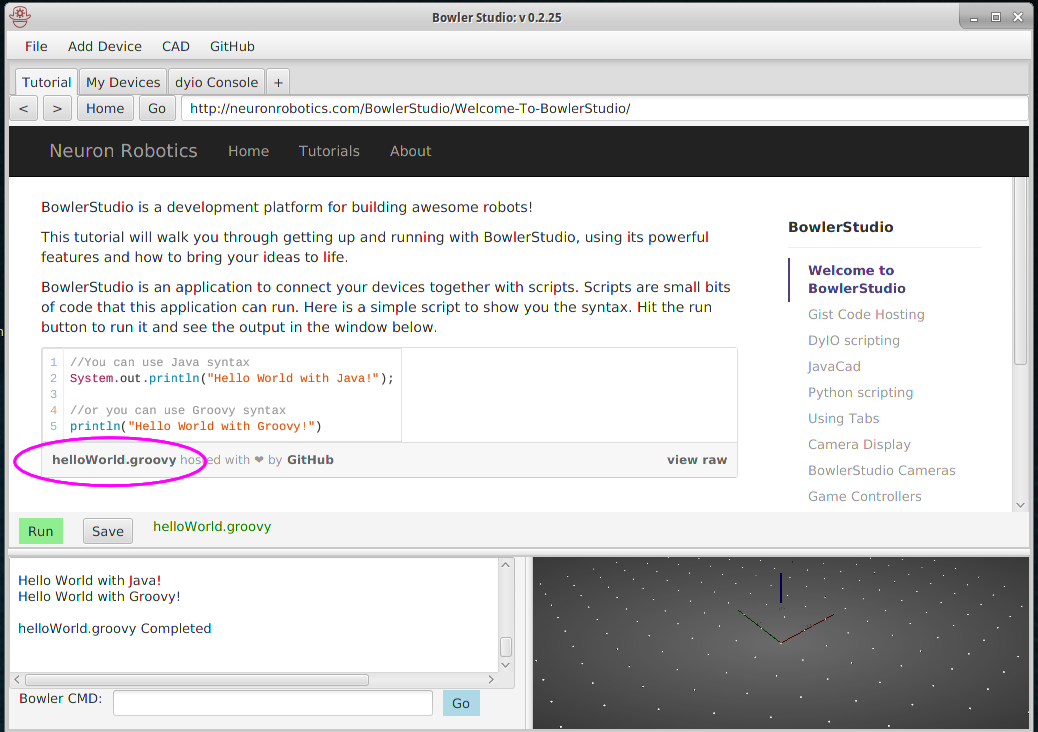
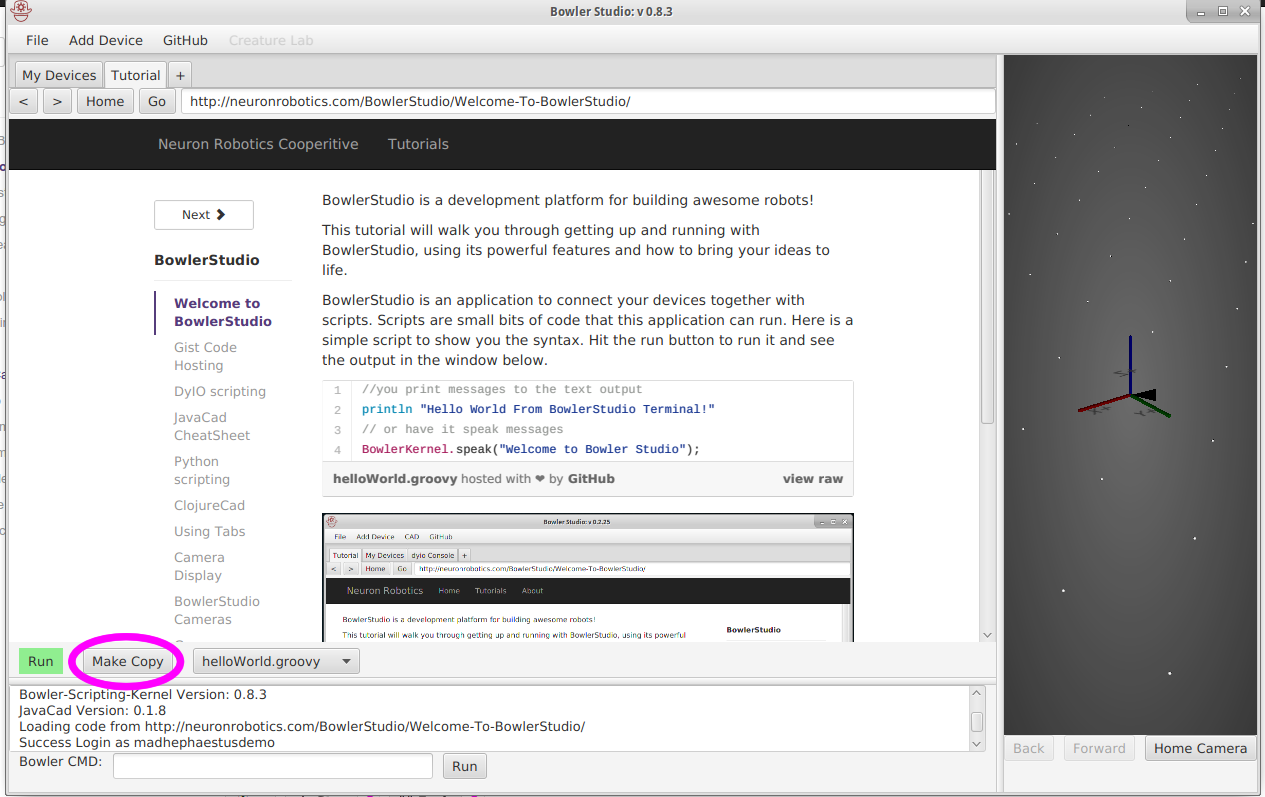
updating the tutorial for getting started to expose more of code structure before features.

diff --git a/content/BowlerStudio/GistLoading.md b/content/BowlerStudio/GistLoading.md
@@ -6,18 +6,16 @@ layout: post
 
 Github Gist is a code hosting website that makes coding social. A 'Gist' is a snipit of code, and we use it to host scripts for BowlerStudio.
 
-BowlerStudio can load code from any Github Gist just by navigating to a website with a Gist embededded in it or by navigating to the gist page. To modify a demo, just click on the filename in the embeded gist to open the browser based editor.
+BowlerStudio can load code from any Github Gist just by navigating to a website with a Gist embededded. TO edit this file first step is to make a copy. This iwll call Git Fork in the background. If you have already forked this gist, you will be brought to your existing copy. 
 
 <img src="/img/bowlerstudioscreengrab/clickonname.png" alt="BowlerStudio Screen Cap" class="img-responsive" >
 
-If the Gist is not yours, hit fork.
+After you hit make a copy, the webpage of your new gist is poped open. Nothe the URL in the navigation bar contains the URL to your gist. Also notice that since this gist is owned by you, the logged in user, then the Make Copy button changes to Edit...
 
-<img src="/img/bowlerstudioscreengrab/fork.png" alt="BowlerStudio Screen Cap" class="img-responsive" >
-
-Once you are looking at your own Gist, hit edit and edit the code in the browser. When your done, hit the update gist button. Your new code is read to run in BowlerStudio!
+Hit the edit button to change your version of the code. 
 
 <img src="/img/bowlerstudioscreengrab/editGist.png" alt="BowlerStudio Screen Cap" class="img-responsive" >
 
-Hit update gist to save your work, then run it from BowlerStudio.
+And finally, to publish your changes to Git, hit the publish button and fill in what you changed and why you changed it. 
 
 <img src="/img/bowlerstudioscreengrab/updateGist.png" alt="BowlerStudio Screen Cap" class="img-responsive" >

diff --git a/content/BowlerStudio/InlineScripting.md b/content/BowlerStudio/InlineScripting.md
@@ -1,9 +1,9 @@
 ---
-title: Inline Scripting
-step: 9
+title: Git-as-Filesystem
+step: 3
 layout: post
 ---
 
-You can also add objects to your script by calling another script. This is an example of calling the script in the first tutorial and using that for each arm axis. 
+Bowler Scripting uses Git as the file system for scripts. Files needed by a script should be hosted and pulled from a Git repository. Likewise, code written in another Git repository can be called from any script. 
 
 <script src="https://gist.github.com/madhephaestus/4139e25c910b93e82732.js"></script>

diff --git a/content/BowlerStudio/Cameras.md b/content/BowlerStudio/Cameras.md
@@ -1,6 +1,6 @@
 ---
 title: BowlerStudio Cameras
-step: 6
+step: 9
 layout: post
 ---
 

diff --git a/content/BowlerStudio/JavaCad.md b/content/BowlerStudio/JavaCad.md
@@ -1,6 +1,6 @@
 ---
 title: JavaCad CheatSheet
-step: 3
+step: 5
 layout: post
 ---
 

diff --git a/content/BowlerStudio/PythonScripting.md b/content/BowlerStudio/PythonScripting.md
@@ -1,6 +1,6 @@
 ---
 title: Python scripting
-step: 4
+step: 7
 layout: post
 ---
 

diff --git a/content/BowlerStudio/DyIOScripting.md b/content/BowlerStudio/DyIOScripting.md
@@ -1,6 +1,6 @@
 ---
 title: DyIO scripting
-step: 2
+step: 4
 layout: post
 ---
 

diff --git a/content/BowlerStudio/ClojureCad.md b/content/BowlerStudio/ClojureCad.md
@@ -1,6 +1,6 @@
 ---
 title: ClojureCad
-step: 4
+step: 6
 layout: post
 ---
 

diff --git a/content/BowlerStudio/Tabs.md b/content/BowlerStudio/Tabs.md
@@ -1,6 +1,6 @@
 ---
 title: Using Tabs
-step: 5
+step: 8
 layout: post
 ---
 
